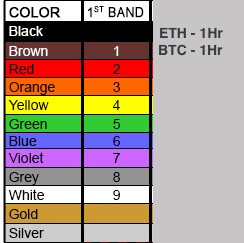
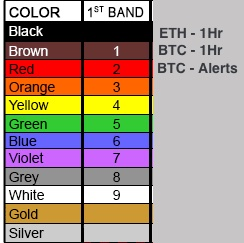
RED Settings Added
RED settings added for using Feeder for Trading View Alert buying only.

Changed region(s): [[0.6311, 0.2593, 0.9754, 0.3169]]

diff --git a/README.md b/README.md
@@ -5,4 +5,8 @@ Settings are based off the bundled settings that come with Profit Trailer Feeder
 
 ![Settings](images/Colours-Settings.jpg)
 
+BLACK - ETH Base pair on 1hr indicators
+BROWN - BTC Base pair on 1hr indicators
+RED - BTC Base pair for Trading View Alert buying only.
+
 You can find me in the #pt-feeder channel in CryptoGnome's Discord Group [here](https://discord.gg/9gDAZHE).
